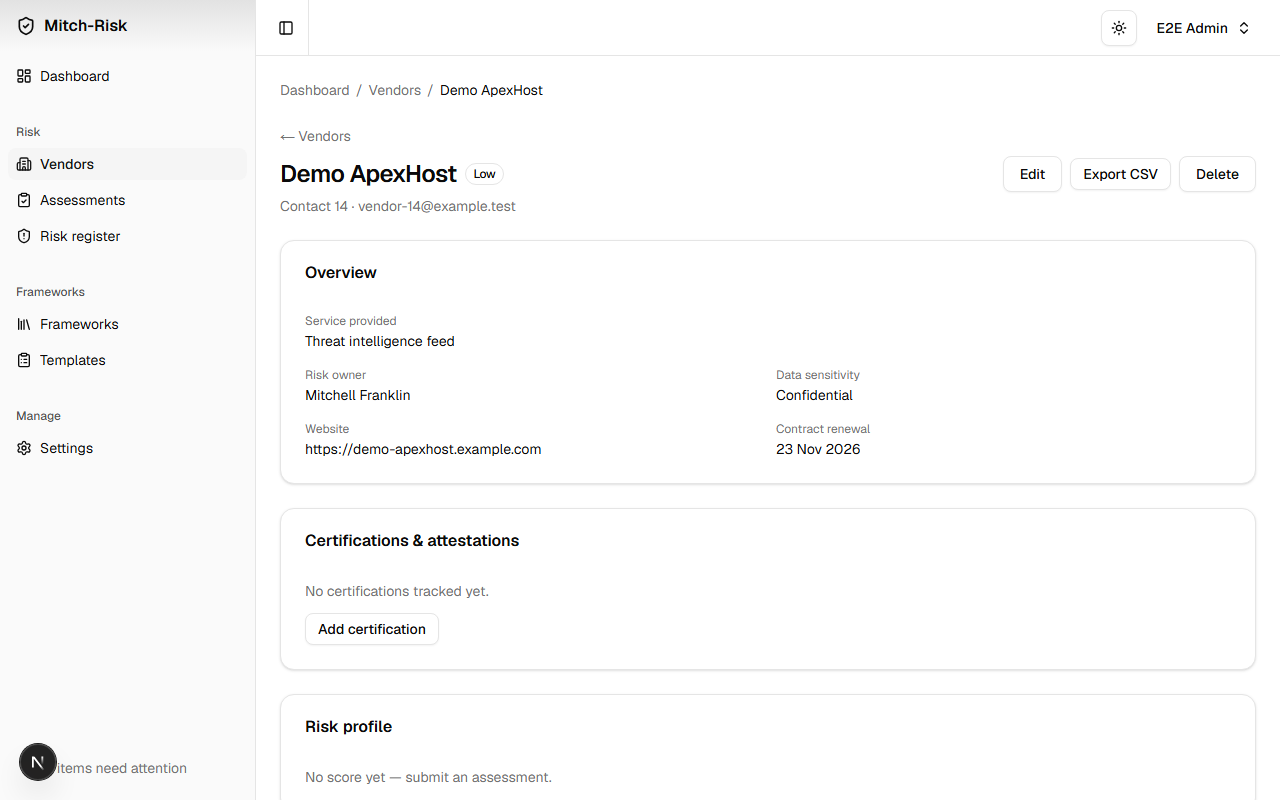
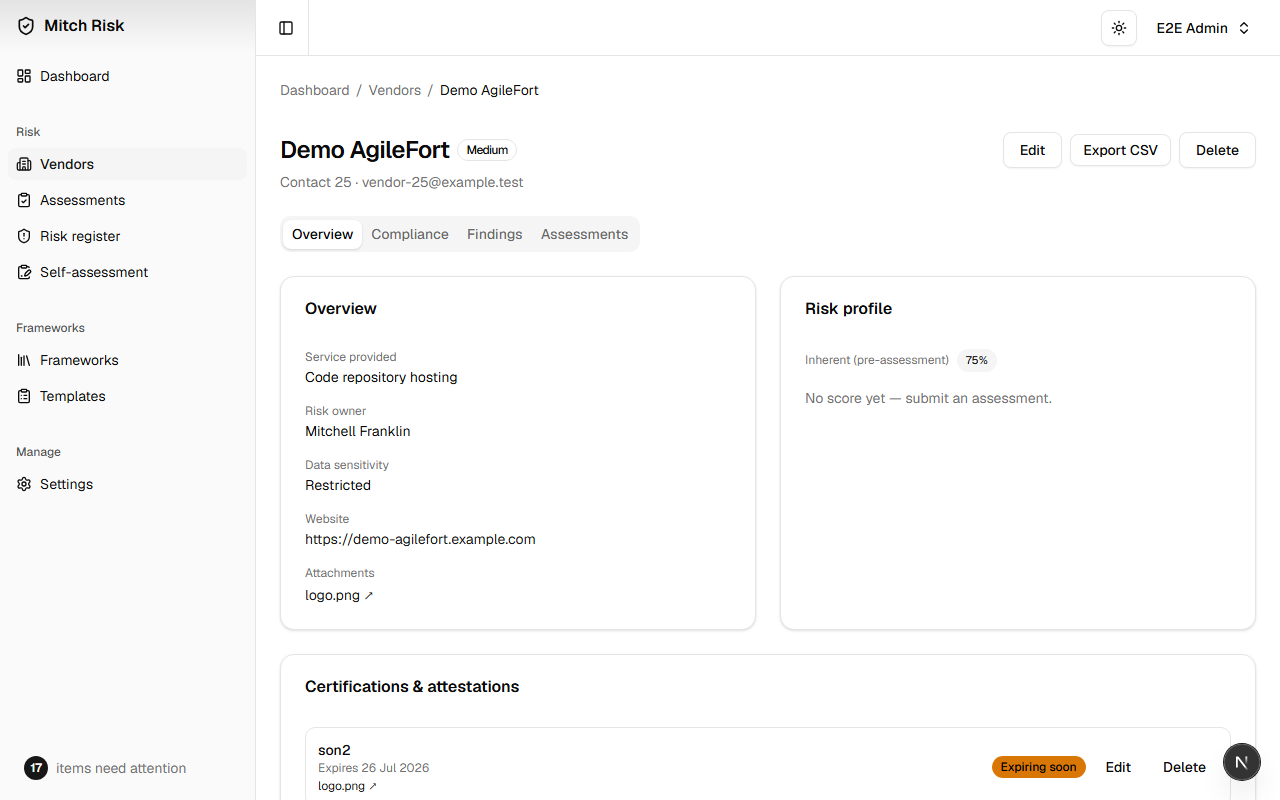
screenshots: update vendor detail screenshots for new tabbed layout, add compliance and findings tabs

diff --git a/e2e/screenshots.spec.ts b/e2e/screenshots.spec.ts
@@ -25,8 +25,7 @@ test("capture dashboard screenshot", async ({ page }) => {
   });
 });
 
-test("capture vendor detail screenshot", async ({ page }) => {
-  await signInAsAdmin(page);
+async function navigateToFirstVendor(page: import("@playwright/test").Page) {
   await page
     .locator('[data-sidebar="menu-button"]')
     .filter({ hasText: "Vendors" })
@@ -39,8 +38,33 @@ test("capture vendor detail screenshot", async ({ page }) => {
     () => !document.body.textContent?.includes("Loading..."),
   );
   await page.waitForTimeout(2000);
+}
+
+test("capture vendor detail overview screenshot", async ({ page }) => {
+  await signInAsAdmin(page);
+  await navigateToFirstVendor(page);
   await page.screenshot({
     path: `${SCREENSHOT_DIR}/vendor-detail.png`,
+  });
+});
+
+test("capture vendor detail compliance screenshot", async ({ page }) => {
+  await signInAsAdmin(page);
+  await navigateToFirstVendor(page);
+  await page.getByRole("tab", { name: "Compliance" }).click();
+  await page.waitForTimeout(1000);
+  await page.screenshot({
+    path: `${SCREENSHOT_DIR}/vendor-detail-compliance.png`,
+  });
+});
+
+test("capture vendor detail findings screenshot", async ({ page }) => {
+  await signInAsAdmin(page);
+  await navigateToFirstVendor(page);
+  await page.getByRole("tab", { name: /Findings/ }).click();
+  await page.waitForTimeout(1000);
+  await page.screenshot({
+    path: `${SCREENSHOT_DIR}/vendor-detail-findings.png`,
   });
 });
 

diff --git a/docs/welcome/screenshots.md b/docs/welcome/screenshots.md
@@ -8,9 +8,25 @@ The dashboard provides a portfolio-level view with animated stat cards, a donut 
 
 ## Vendor Detail
 
-Each vendor profile shows their risk score (colour-coded with RAG thresholds), assessment history with trend sparklines, active certifications with expiry tracking, recent findings, and domain-level compliance heatmaps against all mapped frameworks.
+The vendor detail page uses a tabbed layout to organise profile information, risk scores, compliance data, findings, and assessment history into four focused views.
+
+### Overview
+
+The Overview tab shows vendor profile fields alongside the risk profile card — inherent (pre-assessment) and residual (assessed) scores, overall score with trend direction, and an interactive score history bar chart. Certifications and attestations are managed below.
 
 ![Vendor Detail](../screenshots/vendor-detail.png)
+
+### Compliance
+
+The Compliance tab displays domain-level compliance bars with RAG-coloured progress indicators, computed from the vendor's latest completed assessment. Links to per-framework control heatmaps provide drill-down into individual control compliance.
+
+![Vendor Detail — Compliance](../screenshots/vendor-detail-compliance.png)
+
+### Findings
+
+The Findings tab lists all findings for the vendor with severity and status badges, linked to their source assessments. An open findings count badge on the tab trigger provides an at-a-glance indicator of outstanding issues.
+
+![Vendor Detail — Findings](../screenshots/vendor-detail-findings.png)
 
 ## Assessment Review
 
